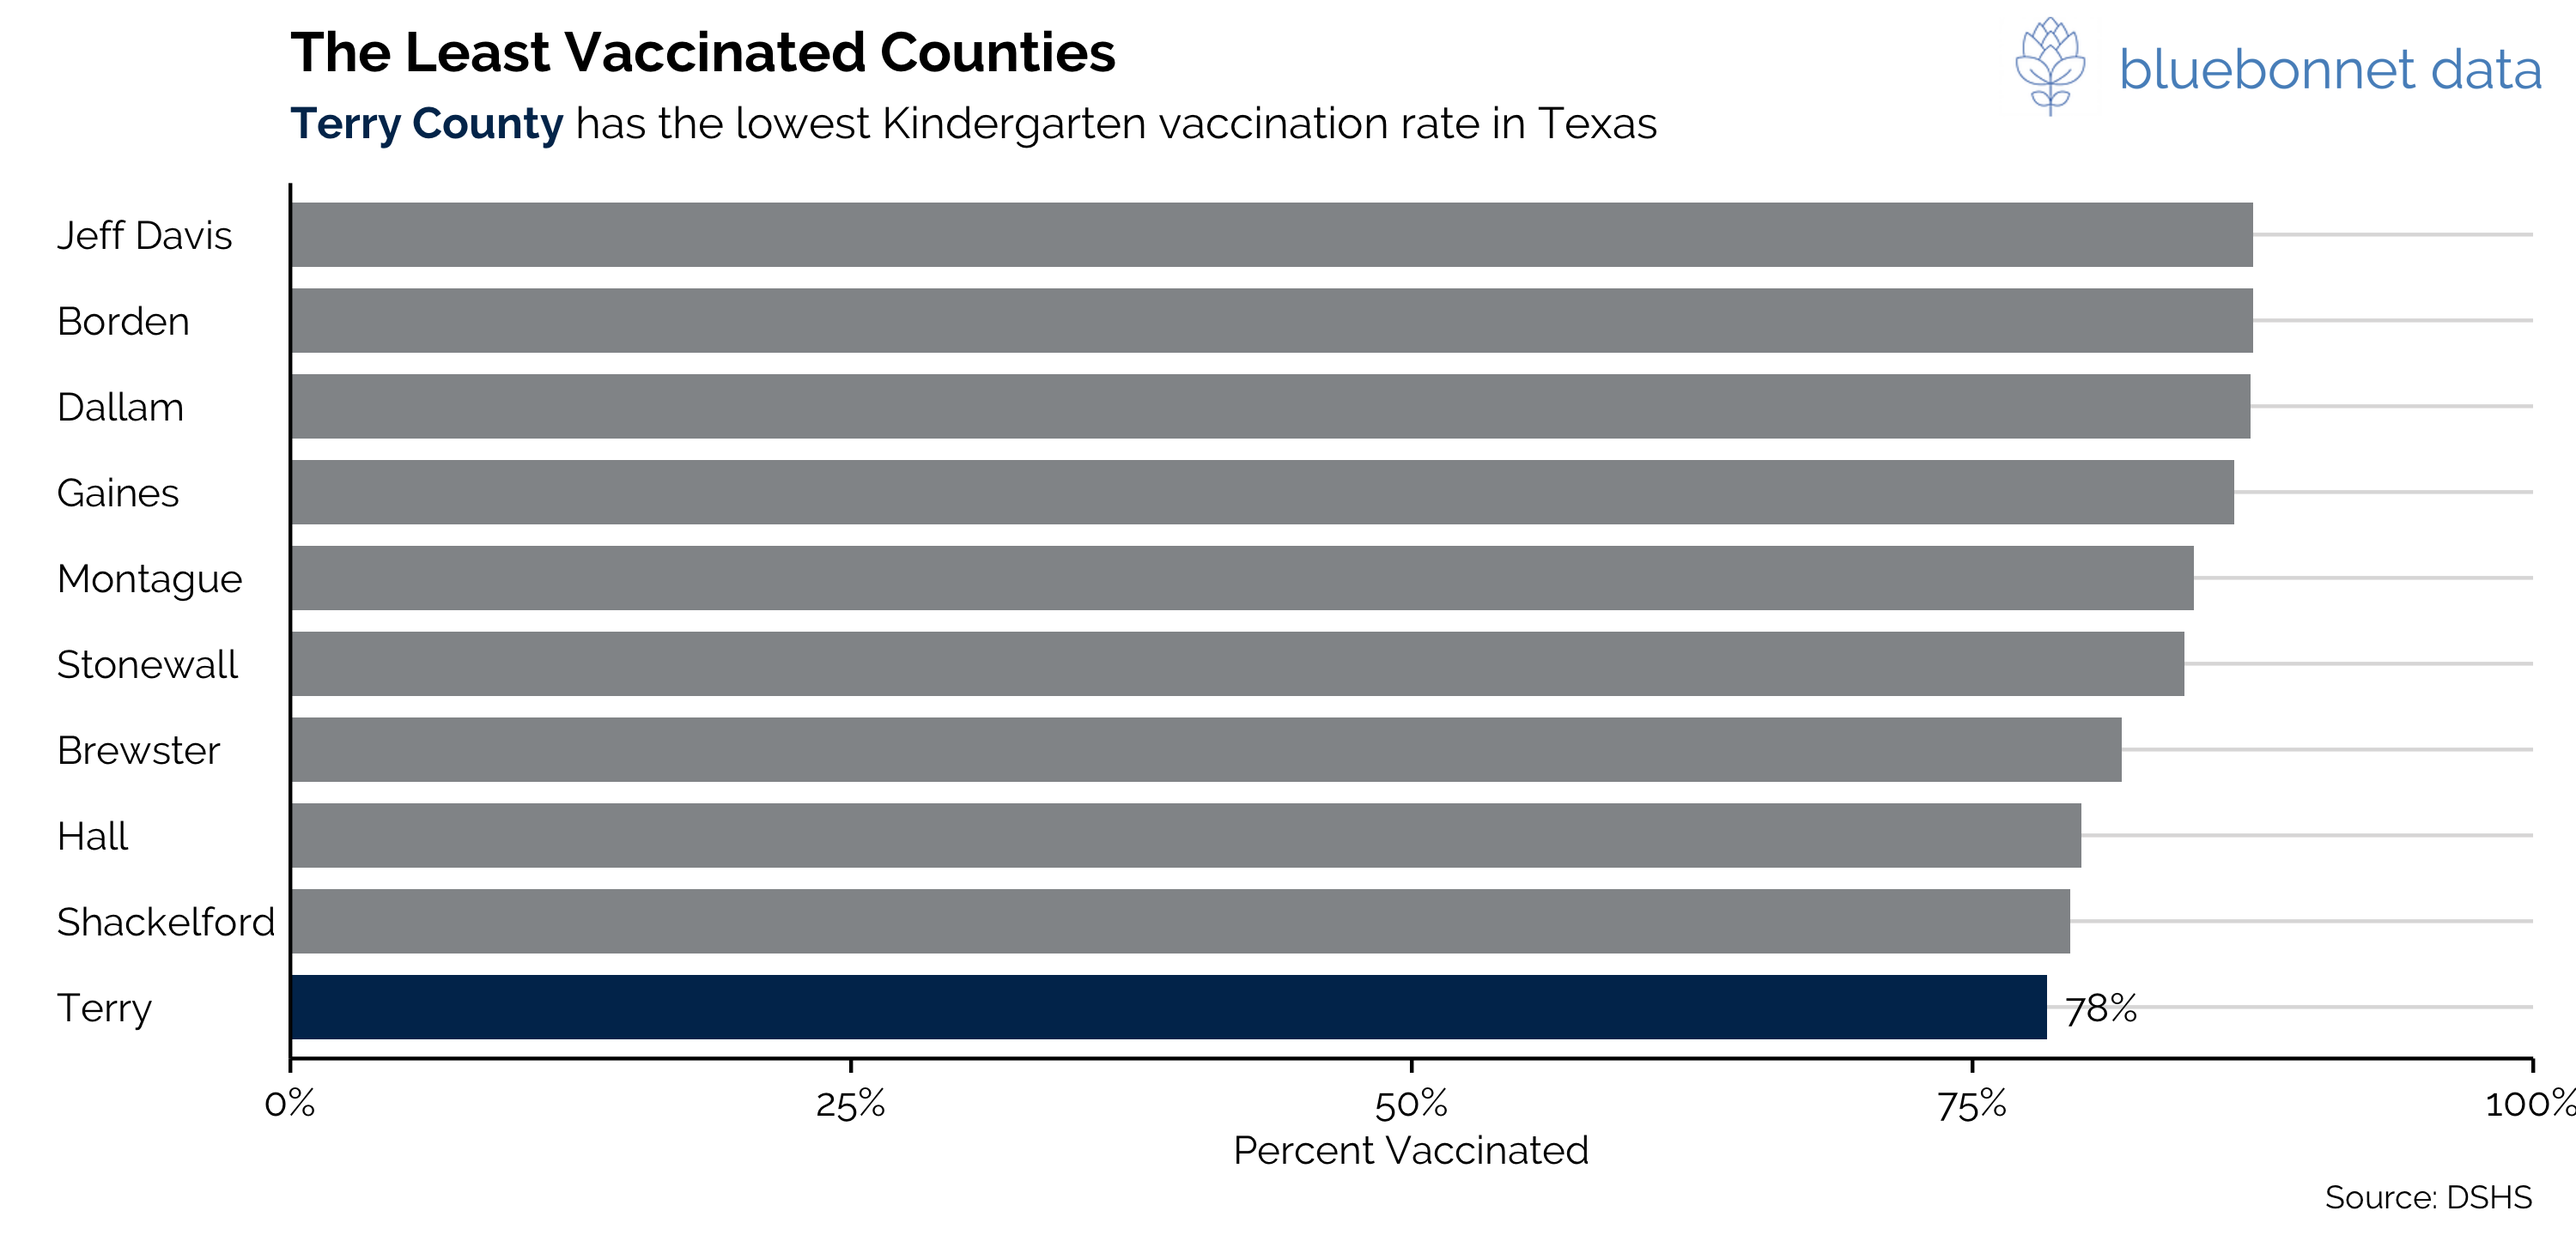
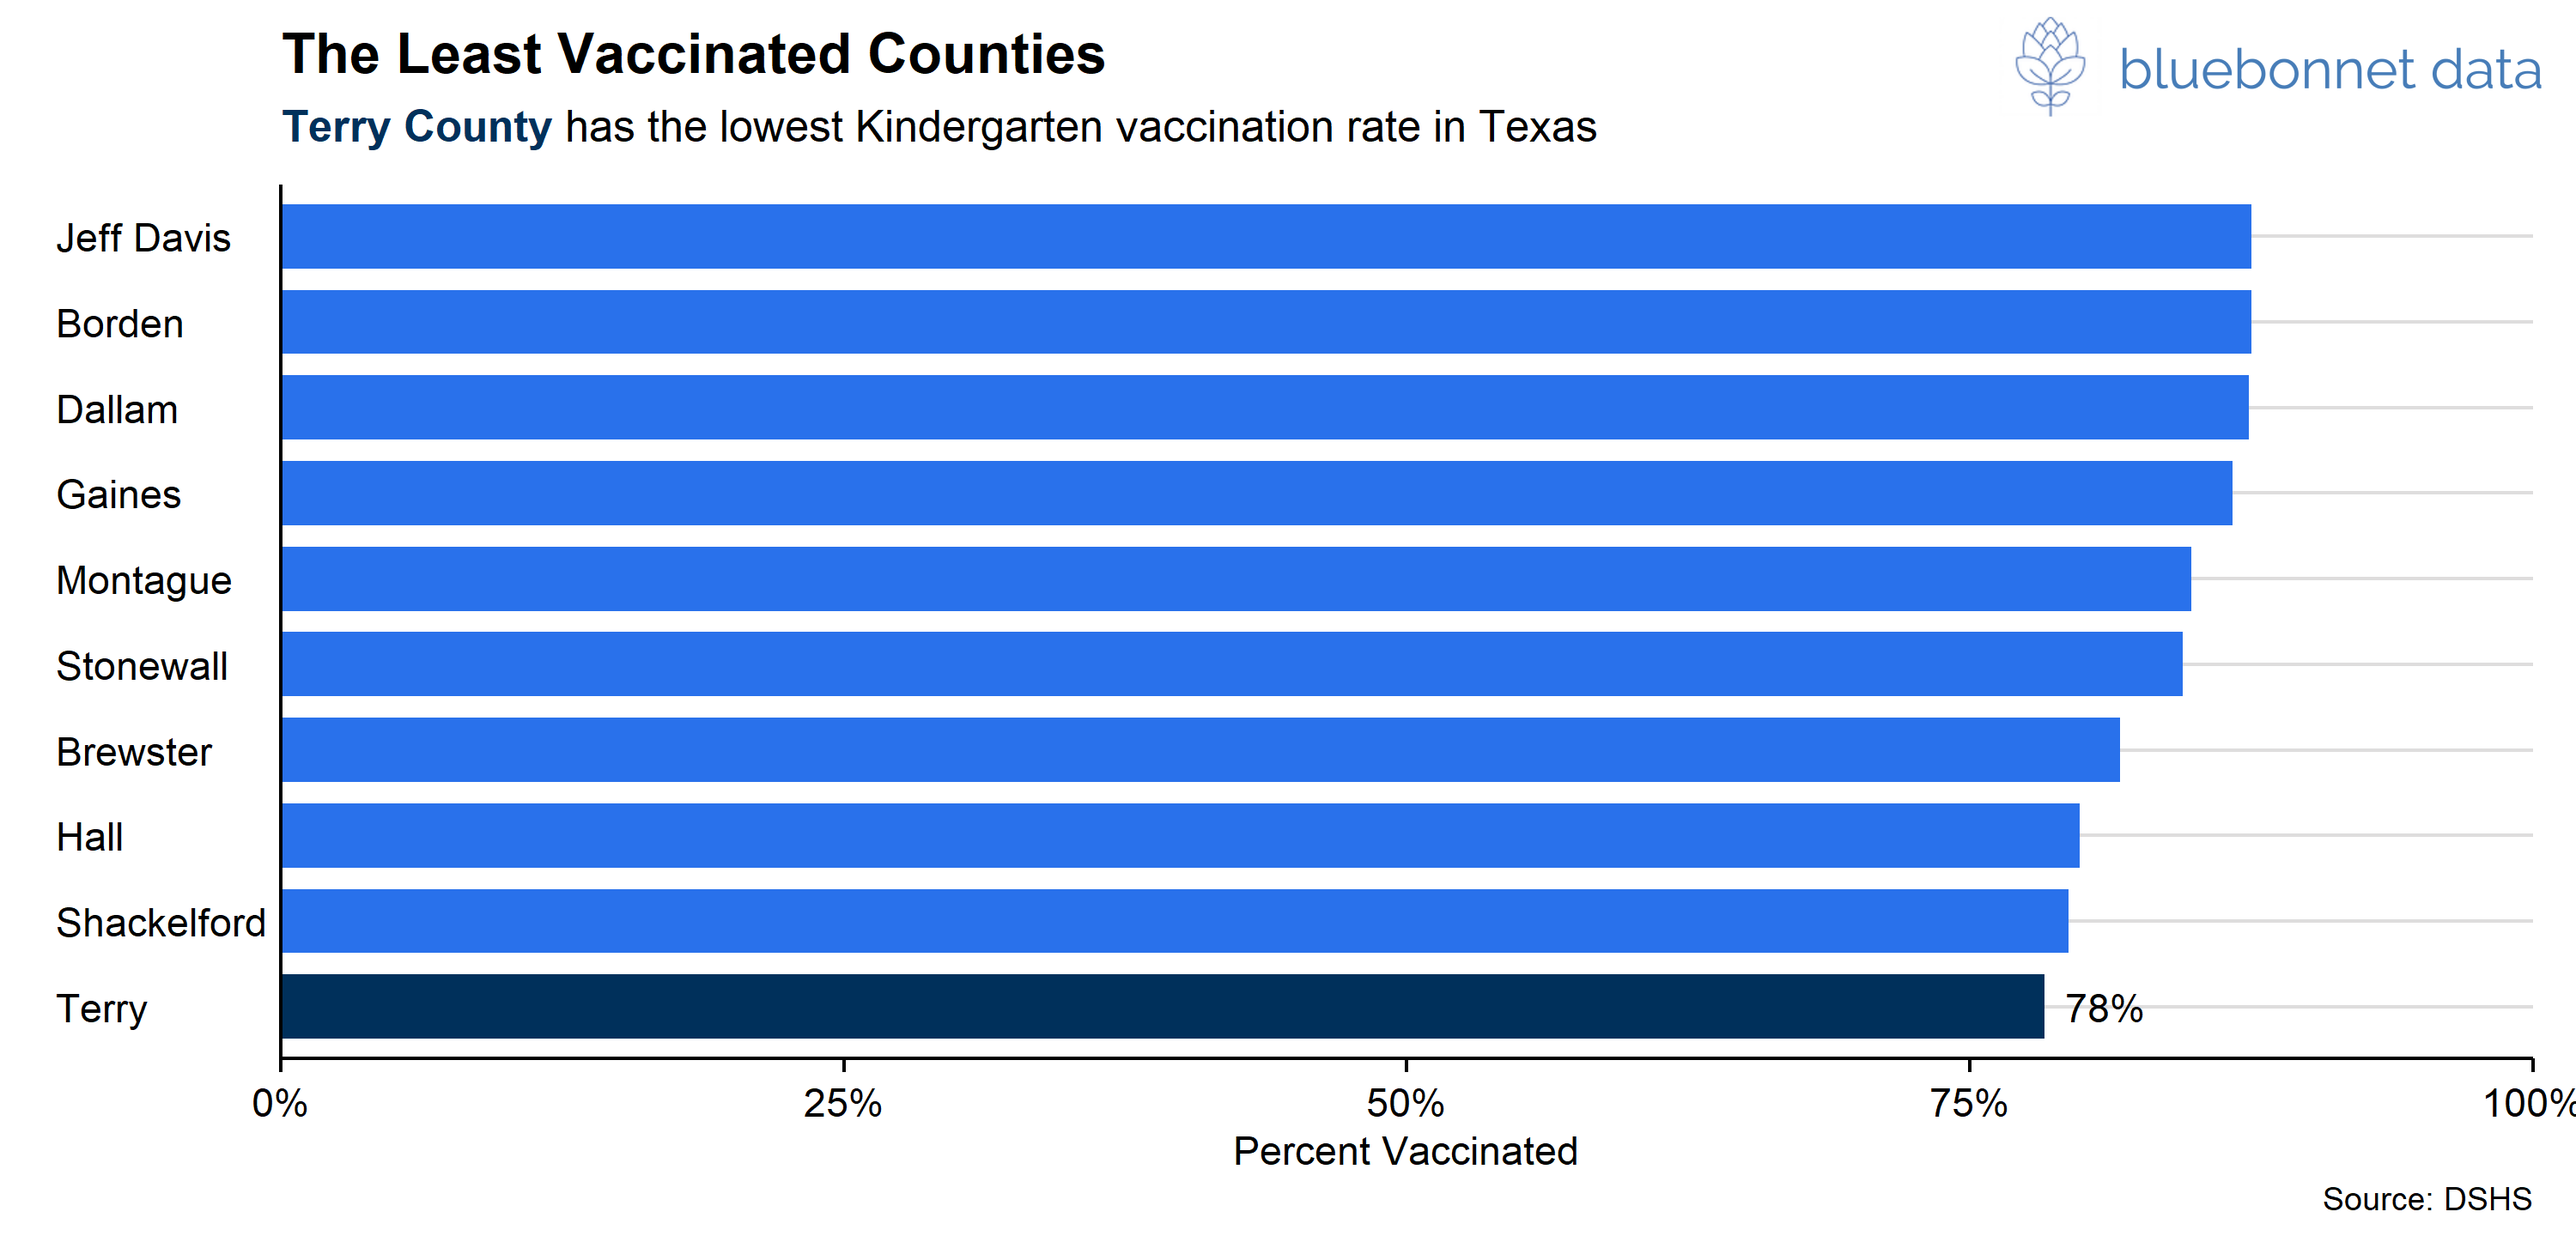
fix font issues

diff --git a/README.md b/README.md
@@ -18,7 +18,7 @@ set_bbd_theme()
 ggplot(data = data, aes(x = year, y = gdpPercap/1000, fill = country)) +
   geom_area() +
   scale_x_date(expand = c(0,0)) +
-  fix_bars() +
+  bbd_fix_bars() +
   labs(title = "GDP Per Capita Over Time",
        subtitle = "Using the BBD Color Palette",
        x = "Year",
@@ -75,7 +75,7 @@ plot <- ggplot(data = tx_vac, aes(x = tx_vac$long,
 add_bbd_logo(plot, scale = 1.5, position = "bottom left")
 ```
 
-<img src="man/figures/README-unnamed-chunk-3-1.png" style="display: block; margin: auto;" />
+<img src="man/figures/README-unnamed-chunk-3-1.png" width="960" style="display: block; margin: auto;" />
 
 ``` r
 set_bbd_theme(style = "print")
@@ -108,7 +108,7 @@ plot <- ggplot(data = tx_vac_low, aes(x = reorder(subregion, avgvac),
 add_bbd_logo(plot, scale = 1.5)
 ```
 
-<img src="man/figures/README-unnamed-chunk-4-1.png" style="display: block; margin: auto;" />
+<img src="man/figures/README-unnamed-chunk-4-1.png" width="960" style="display: block; margin: auto;" />
 
 ### Palettes
 
